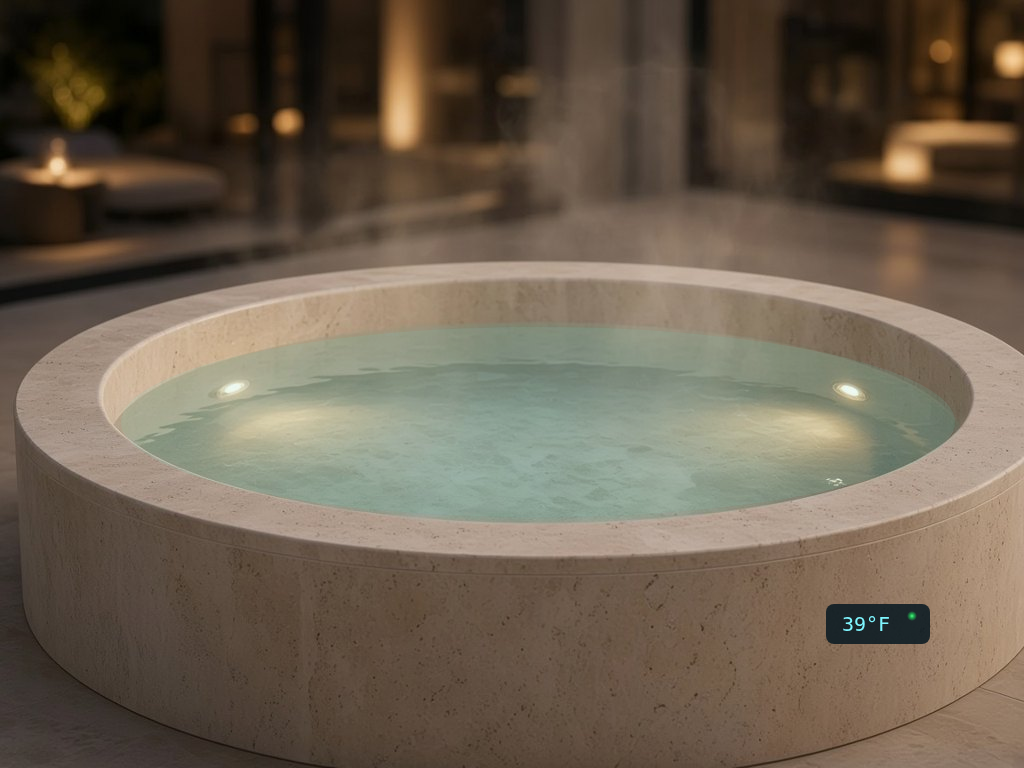
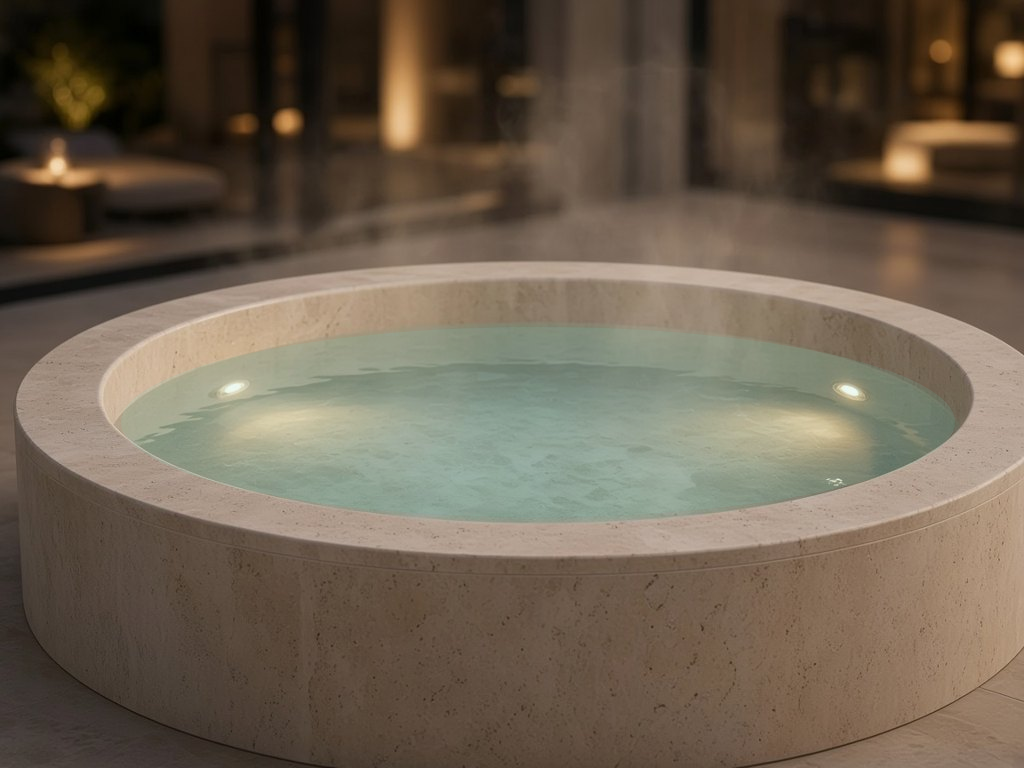
Brand: C01 chromotherapy lights visible on power-on (bright LED orbs, beams, rim wash)

Changed region(s): [[0.7812, 0.7812, 0.9062, 0.8438]]

diff --git a/brand/demo-objects/c01-cold-plunge/object.html b/brand/demo-objects/c01-cold-plunge/object.html
@@ -20,20 +20,20 @@
 .cf-demo-object.chiller-on #flow .ring{transform-box:fill-box;transform-origin:50% 50%;animation:cfRipple 3s ease-out infinite}
 .cf-demo-object.power-on #led-power,.cf-demo-object.power-on #display{opacity:1}
 .cf-demo-object.chiller-on #led-chiller{opacity:1;animation:cfPulse 2s infinite}
-.cf-demo-object #chromo,.cf-demo-object #chromo-fixtures,.cf-demo-object #chromo-rim{opacity:0;transition:opacity .8s ease}
-.cf-demo-object.chromo-on #chromo{opacity:1}
-.cf-demo-object.chromo-on #chromo-fixtures{opacity:1}
-.cf-demo-object.chromo-on #chromo-rim{opacity:.55}
-.cf-demo-object.chromo-on #led-chromo{opacity:1}
+.cf-demo-object #chromo,.cf-demo-object #chromo-fixtures,.cf-demo-object #chromo-rim,.cf-demo-object #led-chromo{opacity:0;transition:opacity .8s ease}
+.cf-demo-object.chromo-on #chromo,.cf-demo-object.power-on:not(.chromo-off) #chromo{opacity:1}
+.cf-demo-object.chromo-on #chromo-fixtures,.cf-demo-object.power-on:not(.chromo-off) #chromo-fixtures{opacity:1}
+.cf-demo-object.chromo-on #chromo-rim,.cf-demo-object.power-on:not(.chromo-off) #chromo-rim{opacity:1}
+.cf-demo-object.chromo-on #led-chromo,.cf-demo-object.power-on:not(.chromo-off) #led-chromo{opacity:1}
 .cf-demo-object .cc{fill:#1e6bff;transition:fill .8s ease}
 @keyframes cfChromo{0%{fill:#1e6bff}20%{fill:#00d1c1}40%{fill:#8a3dff}60%{fill:#ff3da8}80%{fill:#ff9a2e}100%{fill:#1e6bff}}
-.cf-demo-object.chromo-on .cc{animation:cfChromo 12s linear infinite}
-.cf-demo-object.chromo-on.chromo-blue .cc{animation:none;fill:#1e6bff}
-.cf-demo-object.chromo-on.chromo-teal .cc{animation:none;fill:#00d1c1}
-.cf-demo-object.chromo-on.chromo-violet .cc{animation:none;fill:#8a3dff}
-.cf-demo-object.chromo-on.chromo-magenta .cc{animation:none;fill:#ff3da8}
-.cf-demo-object.chromo-on.chromo-warm .cc{animation:none;fill:#ff9a2e}
-.cf-demo-object.chromo-on.chromo-white .cc{animation:none;fill:#eaf6ff}
+.cf-demo-object.chromo-on .cc,.cf-demo-object.power-on:not(.chromo-off) .cc{animation:cfChromo 12s linear infinite}
+.cf-demo-object.cf-demo-object.chromo-blue:not(.chromo-off) .cc{animation:none;fill:#1e6bff}
+.cf-demo-object.cf-demo-object.chromo-teal:not(.chromo-off) .cc{animation:none;fill:#00d1c1}
+.cf-demo-object.cf-demo-object.chromo-violet:not(.chromo-off) .cc{animation:none;fill:#8a3dff}
+.cf-demo-object.cf-demo-object.chromo-magenta:not(.chromo-off) .cc{animation:none;fill:#ff3da8}
+.cf-demo-object.cf-demo-object.chromo-warm:not(.chromo-off) .cc{animation:none;fill:#ff9a2e}
+.cf-demo-object.cf-demo-object.chromo-white:not(.chromo-off) .cc{animation:none;fill:#eaf6ff}
 </style>
 <defs><radialGradient id="gWarm"><stop offset="0" stop-color="#ffb347" stop-opacity=".9"/><stop offset="1" stop-color="#ff7a00" stop-opacity="0"/></radialGradient>
 <radialGradient id="gCyan"><stop offset="0" stop-color="#7ff6ff" stop-opacity=".85"/><stop offset="1" stop-color="#00c8ff" stop-opacity="0"/></radialGradient>
@@ -62,12 +62,12 @@
 <g id="water" clip-path="url(#cWater)"><rect id="water-tint" x="110" y="320" width="860" height="210" style="mix-blend-mode:soft-light"/></g>
 <mask id="mWater"><ellipse cx="538" cy="422" rx="414" ry="93" fill="#fff" filter="url(#fCaus)"/></mask>
 <g id="chromo">
-<g clip-path="url(#cWater)" mask="url(#mWater)" style="mix-blend-mode:multiply" opacity=".3"><rect class="cc" x="110" y="320" width="860" height="210"/></g>
-<g clip-path="url(#cWater)" mask="url(#mWater)" style="mix-blend-mode:color" opacity=".38"><rect class="cc" x="110" y="320" width="860" height="210"/></g>
-<g clip-path="url(#cWater)" mask="url(#mWater)" style="mix-blend-mode:screen" opacity=".55"><g filter="url(#fBlurBig)"><ellipse class="cc" cx="255" cy="412" rx="160" ry="55"/><ellipse class="cc" cx="825" cy="415" rx="160" ry="55"/><ellipse class="cc" cx="538" cy="470" rx="260" ry="40" opacity=".5"/></g></g>
+<g clip-path="url(#cWater)" mask="url(#mWater)" style="mix-blend-mode:multiply" opacity=".35"><rect class="cc" x="110" y="320" width="860" height="210"/></g>
+<g clip-path="url(#cWater)" mask="url(#mWater)" style="mix-blend-mode:color" opacity=".72"><rect class="cc" x="110" y="320" width="860" height="210"/></g>
+<g clip-path="url(#cWater)" mask="url(#mWater)" style="mix-blend-mode:screen" opacity=".95"><g filter="url(#fBlurBig)"><ellipse class="cc" cx="255" cy="412" rx="210" ry="70"/><ellipse class="cc" cx="825" cy="415" rx="210" ry="70"/><ellipse class="cc" cx="538" cy="440" rx="330" ry="60" opacity=".75"/><path class="cc" d="M232 392 L420 520 L180 520 Z" opacity=".8"/><path class="cc" d="M850 395 L900 520 L660 520 Z" opacity=".8"/></g></g>
 </g>
-<g id="chromo-rim" clip-path="url(#cRimIn)" mask="url(#mRimIn)" style="mix-blend-mode:screen"><ellipse class="cc" cx="260" cy="395" rx="150" ry="40" opacity=".5" filter="url(#fBlurBig)"/><ellipse class="cc" cx="820" cy="398" rx="150" ry="40" opacity=".5" filter="url(#fBlurBig)"/></g>
-<g id="chromo-fixtures" style="mix-blend-mode:screen"><circle class="cc" cx="232" cy="388" r="22" filter="url(#fBlur)"/><circle cx="232" cy="388" r="4" fill="#fff" opacity=".85"/><circle class="cc" cx="850" cy="391" r="22" filter="url(#fBlur)"/><circle cx="850" cy="391" r="4" fill="#fff" opacity=".85"/></g>
+<g id="chromo-rim" clip-path="url(#cRimIn)" mask="url(#mRimIn)" style="mix-blend-mode:screen"><ellipse class="cc" cx="260" cy="385" rx="200" ry="55" opacity=".95" filter="url(#fBlurBig)"/><ellipse class="cc" cx="820" cy="388" rx="200" ry="55" opacity=".95" filter="url(#fBlurBig)"/><ellipse class="cc" cx="538" cy="330" rx="300" ry="30" opacity=".55" filter="url(#fBlurBig)"/></g>
+<g id="chromo-fixtures" style="mix-blend-mode:screen"><circle class="cc" cx="232" cy="388" r="70" opacity=".7" filter="url(#fBlurBig)"/><circle class="cc" cx="232" cy="388" r="30" filter="url(#fBlur)"/><circle cx="232" cy="388" r="11" fill="#fff" opacity=".95" filter="url(#fSoft)"/><circle class="cc" cx="850" cy="391" r="70" opacity=".7" filter="url(#fBlurBig)"/><circle class="cc" cx="850" cy="391" r="30" filter="url(#fBlur)"/><circle cx="850" cy="391" r="11" fill="#fff" opacity=".95" filter="url(#fSoft)"/></g>
 <g id="flow" class="ov" style="mix-blend-mode:screen" clip-path="url(#cWater)"><g opacity=".25"><ellipse class="ring" style="animation-delay:0.0s" cx="538" cy="430" rx="160" ry="34" fill="none" stroke="#dff8ff" stroke-width="3" filter="url(#fCaus)"/><ellipse class="ring" style="animation-delay:1.0s" cx="538" cy="430" rx="160" ry="34" fill="none" stroke="#dff8ff" stroke-width="3" filter="url(#fCaus)"/><ellipse class="ring" style="animation-delay:2.0s" cx="538" cy="430" rx="160" ry="34" fill="none" stroke="#dff8ff" stroke-width="3" filter="url(#fCaus)"/></g></g>
 <g id="mist" class="ov"><ellipse class="puff" style="animation-delay:0.0s" cx="230" cy="330" rx="120" ry="34" fill="#fff" opacity=".22" filter="url(#fBlurBig)"/><ellipse class="puff" style="animation-delay:0.6s" cx="380" cy="305" rx="120" ry="34" fill="#fff" opacity=".22" filter="url(#fBlurBig)"/><ellipse class="puff" style="animation-delay:1.2s" cx="530" cy="330" rx="120" ry="34" fill="#fff" opacity=".22" filter="url(#fBlurBig)"/><ellipse class="puff" style="animation-delay:1.8s" cx="680" cy="305" rx="120" ry="34" fill="#fff" opacity=".22" filter="url(#fBlurBig)"/><ellipse class="puff" style="animation-delay:2.4s" cx="830" cy="330" rx="120" ry="34" fill="#fff" opacity=".22" filter="url(#fBlurBig)"/></g>
 <g id="display" class="ov"><rect x="826" y="604" width="104" height="40" rx="8" fill="#0a1a22" opacity=".88"/><text x="866" y="631" fill="#7ff6ff" font-family="monospace" font-size="20" text-anchor="middle">39°F</text></g>

diff --git a/brand/site-handoff/wave1/products/C01-cold-plunge/demo/object.html b/brand/site-handoff/wave1/products/C01-cold-plunge/demo/object.html
@@ -20,20 +20,20 @@
 .cf-demo-object.chiller-on #flow .ring{transform-box:fill-box;transform-origin:50% 50%;animation:cfRipple 3s ease-out infinite}
 .cf-demo-object.power-on #led-power,.cf-demo-object.power-on #display{opacity:1}
 .cf-demo-object.chiller-on #led-chiller{opacity:1;animation:cfPulse 2s infinite}
-.cf-demo-object #chromo,.cf-demo-object #chromo-fixtures,.cf-demo-object #chromo-rim{opacity:0;transition:opacity .8s ease}
-.cf-demo-object.chromo-on #chromo{opacity:1}
-.cf-demo-object.chromo-on #chromo-fixtures{opacity:1}
-.cf-demo-object.chromo-on #chromo-rim{opacity:.55}
-.cf-demo-object.chromo-on #led-chromo{opacity:1}
+.cf-demo-object #chromo,.cf-demo-object #chromo-fixtures,.cf-demo-object #chromo-rim,.cf-demo-object #led-chromo{opacity:0;transition:opacity .8s ease}
+.cf-demo-object.chromo-on #chromo,.cf-demo-object.power-on:not(.chromo-off) #chromo{opacity:1}
+.cf-demo-object.chromo-on #chromo-fixtures,.cf-demo-object.power-on:not(.chromo-off) #chromo-fixtures{opacity:1}
+.cf-demo-object.chromo-on #chromo-rim,.cf-demo-object.power-on:not(.chromo-off) #chromo-rim{opacity:1}
+.cf-demo-object.chromo-on #led-chromo,.cf-demo-object.power-on:not(.chromo-off) #led-chromo{opacity:1}
 .cf-demo-object .cc{fill:#1e6bff;transition:fill .8s ease}
 @keyframes cfChromo{0%{fill:#1e6bff}20%{fill:#00d1c1}40%{fill:#8a3dff}60%{fill:#ff3da8}80%{fill:#ff9a2e}100%{fill:#1e6bff}}
-.cf-demo-object.chromo-on .cc{animation:cfChromo 12s linear infinite}
-.cf-demo-object.chromo-on.chromo-blue .cc{animation:none;fill:#1e6bff}
-.cf-demo-object.chromo-on.chromo-teal .cc{animation:none;fill:#00d1c1}
-.cf-demo-object.chromo-on.chromo-violet .cc{animation:none;fill:#8a3dff}
-.cf-demo-object.chromo-on.chromo-magenta .cc{animation:none;fill:#ff3da8}
-.cf-demo-object.chromo-on.chromo-warm .cc{animation:none;fill:#ff9a2e}
-.cf-demo-object.chromo-on.chromo-white .cc{animation:none;fill:#eaf6ff}
+.cf-demo-object.chromo-on .cc,.cf-demo-object.power-on:not(.chromo-off) .cc{animation:cfChromo 12s linear infinite}
+.cf-demo-object.cf-demo-object.chromo-blue:not(.chromo-off) .cc{animation:none;fill:#1e6bff}
+.cf-demo-object.cf-demo-object.chromo-teal:not(.chromo-off) .cc{animation:none;fill:#00d1c1}
+.cf-demo-object.cf-demo-object.chromo-violet:not(.chromo-off) .cc{animation:none;fill:#8a3dff}
+.cf-demo-object.cf-demo-object.chromo-magenta:not(.chromo-off) .cc{animation:none;fill:#ff3da8}
+.cf-demo-object.cf-demo-object.chromo-warm:not(.chromo-off) .cc{animation:none;fill:#ff9a2e}
+.cf-demo-object.cf-demo-object.chromo-white:not(.chromo-off) .cc{animation:none;fill:#eaf6ff}
 </style>
 <defs><radialGradient id="gWarm"><stop offset="0" stop-color="#ffb347" stop-opacity=".9"/><stop offset="1" stop-color="#ff7a00" stop-opacity="0"/></radialGradient>
 <radialGradient id="gCyan"><stop offset="0" stop-color="#7ff6ff" stop-opacity=".85"/><stop offset="1" stop-color="#00c8ff" stop-opacity="0"/></radialGradient>
@@ -62,12 +62,12 @@
 <g id="water" clip-path="url(#cWater)"><rect id="water-tint" x="110" y="320" width="860" height="210" style="mix-blend-mode:soft-light"/></g>
 <mask id="mWater"><ellipse cx="538" cy="422" rx="414" ry="93" fill="#fff" filter="url(#fCaus)"/></mask>
 <g id="chromo">
-<g clip-path="url(#cWater)" mask="url(#mWater)" style="mix-blend-mode:multiply" opacity=".3"><rect class="cc" x="110" y="320" width="860" height="210"/></g>
-<g clip-path="url(#cWater)" mask="url(#mWater)" style="mix-blend-mode:color" opacity=".38"><rect class="cc" x="110" y="320" width="860" height="210"/></g>
-<g clip-path="url(#cWater)" mask="url(#mWater)" style="mix-blend-mode:screen" opacity=".55"><g filter="url(#fBlurBig)"><ellipse class="cc" cx="255" cy="412" rx="160" ry="55"/><ellipse class="cc" cx="825" cy="415" rx="160" ry="55"/><ellipse class="cc" cx="538" cy="470" rx="260" ry="40" opacity=".5"/></g></g>
+<g clip-path="url(#cWater)" mask="url(#mWater)" style="mix-blend-mode:multiply" opacity=".35"><rect class="cc" x="110" y="320" width="860" height="210"/></g>
+<g clip-path="url(#cWater)" mask="url(#mWater)" style="mix-blend-mode:color" opacity=".72"><rect class="cc" x="110" y="320" width="860" height="210"/></g>
+<g clip-path="url(#cWater)" mask="url(#mWater)" style="mix-blend-mode:screen" opacity=".95"><g filter="url(#fBlurBig)"><ellipse class="cc" cx="255" cy="412" rx="210" ry="70"/><ellipse class="cc" cx="825" cy="415" rx="210" ry="70"/><ellipse class="cc" cx="538" cy="440" rx="330" ry="60" opacity=".75"/><path class="cc" d="M232 392 L420 520 L180 520 Z" opacity=".8"/><path class="cc" d="M850 395 L900 520 L660 520 Z" opacity=".8"/></g></g>
 </g>
-<g id="chromo-rim" clip-path="url(#cRimIn)" mask="url(#mRimIn)" style="mix-blend-mode:screen"><ellipse class="cc" cx="260" cy="395" rx="150" ry="40" opacity=".5" filter="url(#fBlurBig)"/><ellipse class="cc" cx="820" cy="398" rx="150" ry="40" opacity=".5" filter="url(#fBlurBig)"/></g>
-<g id="chromo-fixtures" style="mix-blend-mode:screen"><circle class="cc" cx="232" cy="388" r="22" filter="url(#fBlur)"/><circle cx="232" cy="388" r="4" fill="#fff" opacity=".85"/><circle class="cc" cx="850" cy="391" r="22" filter="url(#fBlur)"/><circle cx="850" cy="391" r="4" fill="#fff" opacity=".85"/></g>
+<g id="chromo-rim" clip-path="url(#cRimIn)" mask="url(#mRimIn)" style="mix-blend-mode:screen"><ellipse class="cc" cx="260" cy="385" rx="200" ry="55" opacity=".95" filter="url(#fBlurBig)"/><ellipse class="cc" cx="820" cy="388" rx="200" ry="55" opacity=".95" filter="url(#fBlurBig)"/><ellipse class="cc" cx="538" cy="330" rx="300" ry="30" opacity=".55" filter="url(#fBlurBig)"/></g>
+<g id="chromo-fixtures" style="mix-blend-mode:screen"><circle class="cc" cx="232" cy="388" r="70" opacity=".7" filter="url(#fBlurBig)"/><circle class="cc" cx="232" cy="388" r="30" filter="url(#fBlur)"/><circle cx="232" cy="388" r="11" fill="#fff" opacity=".95" filter="url(#fSoft)"/><circle class="cc" cx="850" cy="391" r="70" opacity=".7" filter="url(#fBlurBig)"/><circle class="cc" cx="850" cy="391" r="30" filter="url(#fBlur)"/><circle cx="850" cy="391" r="11" fill="#fff" opacity=".95" filter="url(#fSoft)"/></g>
 <g id="flow" class="ov" style="mix-blend-mode:screen" clip-path="url(#cWater)"><g opacity=".25"><ellipse class="ring" style="animation-delay:0.0s" cx="538" cy="430" rx="160" ry="34" fill="none" stroke="#dff8ff" stroke-width="3" filter="url(#fCaus)"/><ellipse class="ring" style="animation-delay:1.0s" cx="538" cy="430" rx="160" ry="34" fill="none" stroke="#dff8ff" stroke-width="3" filter="url(#fCaus)"/><ellipse class="ring" style="animation-delay:2.0s" cx="538" cy="430" rx="160" ry="34" fill="none" stroke="#dff8ff" stroke-width="3" filter="url(#fCaus)"/></g></g>
 <g id="mist" class="ov"><ellipse class="puff" style="animation-delay:0.0s" cx="230" cy="330" rx="120" ry="34" fill="#fff" opacity=".22" filter="url(#fBlurBig)"/><ellipse class="puff" style="animation-delay:0.6s" cx="380" cy="305" rx="120" ry="34" fill="#fff" opacity=".22" filter="url(#fBlurBig)"/><ellipse class="puff" style="animation-delay:1.2s" cx="530" cy="330" rx="120" ry="34" fill="#fff" opacity=".22" filter="url(#fBlurBig)"/><ellipse class="puff" style="animation-delay:1.8s" cx="680" cy="305" rx="120" ry="34" fill="#fff" opacity=".22" filter="url(#fBlurBig)"/><ellipse class="puff" style="animation-delay:2.4s" cx="830" cy="330" rx="120" ry="34" fill="#fff" opacity=".22" filter="url(#fBlurBig)"/></g>
 <g id="display" class="ov"><rect x="826" y="604" width="104" height="40" rx="8" fill="#0a1a22" opacity=".88"/><text x="866" y="631" fill="#7ff6ff" font-family="monospace" font-size="20" text-anchor="middle">39°F</text></g>

diff --git a/brand/demo-objects/DEMO_OBJECTS.md b/brand/demo-objects/DEMO_OBJECTS.md
@@ -27,9 +27,9 @@ o.querySelector('#water').style.transform = `scaleY(${level})`; // 0..1, bottom-
 | O04 `o04-reef` | `light-on` (#light-beam, #light-glow, #status-light), `heater-on` (#heater-glow, #status-heater), `pump-on` (#flow caustics, #status-pump) | `#water` = cyan tint layer, scaleY |
 | C03 `c03-basement` | `pump1-on` (#pump1-glow, #ripple1, #led-pump1), `pump2-on` (…2), `alarm` (#alarm-wash red pulse, #led-alarm) | `#water` (pit tint) scaleY; `#float` translateY (px, negative = up) |
 | O15 `o15-terrarium` | `lamp-on` (#lamp-beam, #lamp-glow), `heat-on` (#heat-haze), `mist-on` (#mist rising) | **new** `uvb-on` (#uvb bar) |
-| C01 `c01-cold-plunge` | **`chromo-on`** = Chromotherapy master (cycles colors 12 s) + optional fixed color `chromo-blue` / `chromo-teal` / `chromo-violet` / `chromo-magenta` / `chromo-warm` / `chromo-white`; `chiller-on` (#mist, #flow, #led-chiller), `power-on` (#display 39°F, #led-power), `temp-neutral` (water tint cold-blue → neutral) | all water layers clipped to `#cWater` ellipse (= `water-mask.png`); `#water-tint` fill for custom temp tint |
+| C01 `c01-cold-plunge` | **`power-on` or `chromo-on`** = Chromotherapy lights on (`chromo-off` opts out while powered) (cycles colors 12 s) + optional fixed color `chromo-blue` / `chromo-teal` / `chromo-violet` / `chromo-magenta` / `chromo-warm` / `chromo-white`; `chiller-on` (#mist, #flow, #led-chiller), `power-on` (#display 39°F, #led-power), `temp-neutral` (water tint cold-blue → neutral) | all water layers clipped to `#cWater` ellipse (= `water-mask.png`); `#water-tint` fill for custom temp tint |
 
-Idle composites: O04 `swim-on`; O15/C03 no classes; C01 = `power-on temp-neutral`. Active: all listed classes (O04 also `swim-on`; C01 = `power-on chiller-on chromo-on chromo-violet`).
+Idle composites: O04 `swim-on`; O15/C03 no classes; C01 = `temp-neutral` (unpowered, lights off). Active: all listed classes (O04 also `swim-on`; C01 = `power-on chiller-on chromo-on chromo-violet`).
 
 ## Caveats
 - Bases are AI-generated plates (brochure-grade, not product photos of our hardware). C03 is a top-down documentary view, not a true cutaway; water-level scaleY is a tint, not a real level change.
@@ -58,8 +58,10 @@ Class toggles **and** reliable animation require the SVG to be **inlined in the 
 - **New base** `c01-cold-plunge/base.jpg`: round elevated travertine plunge tub, 3/4 close-up, water **contained inside the vessel** below the rim, two underwater LED fixtures on the inner wall, light mist. Generated with our own pool-site spa photo (`_refs/pool-spa-1248.webp`, from `site/src/assets/photos/spa-1248.webp`) as **style/quality reference only**. James’s reef ref not used. Previous broken rectangle base replaced.
 - **Water stays inside the vessel:** every water/LED layer is clipped to `<clipPath id="cWater">` = ellipse `cx 538 cy 422 rx 417 ry 95` (hand-fitted to the water surface) and feathered by `<mask id="mWater">`. Same shape shipped as `c01-cold-plunge/water-mask.png` (1024×768, white = water) for anyone compositing outside the SVG. Only `#chromo-rim` (soft spill onto the *inner* stone wall, masked to the inner bowl) and the rim LCD sit outside the water.
 - **Chromotherapy** (feature name for the site/demo button): colored underwater LEDs, like pool app `.m-spa` + `.spa-lit` + tint `#l-spa-c`.
-  - `chromo-on` = master. Alone it **cycles** blue → teal → violet → magenta → warm (12 s loop).
-  - Add one of `chromo-blue | chromo-teal | chromo-violet | chromo-magenta | chromo-warm | chromo-white` to lock a color (remove to resume cycling).
+  - **v5 visibility rule (James, Oct 26):** chromotherapy lights show whenever **`power-on` OR `chromo-on`** is set, so a site that only toggles `power-on` (plus chiller/pump/heater) already shows cycling colored LEDs. Add `chromo-off` to keep the tub powered with lights dark.
+  - Lit = **cycles** blue → teal → violet → magenta → warm (12 s loop).
+  - v5 strength: `#chromo` color blend .72 + screen glows .95 with beams from each lens; `#chromo-fixtures` = large glowing orbs (70 px halo, 30 px core, white hot spot); `#chromo-rim` full opacity wash on the inner stone.
+  - Add one of `chromo-blue | chromo-teal | chromo-violet | chromo-magenta | chromo-warm | chromo-white` to lock a color (remove to resume cycling). Pins work with either `power-on` or `chromo-on`.
   - Layers: `#chromo` (multiply + color + screen glows, clipped to water), `#chromo-fixtures` (the two LED lenses glow), `#chromo-rim` (inner-wall spill), `#led-chromo` (dot on the rim LCD). All colored elements share class `.cc`; custom color: `o.querySelectorAll('.cc').forEach(e=>e.style.fill='#ff0')` with `chromo-on` + any `chromo-*` lock (to stop the cycle).
   - `chromotherapy-sheet.png` shows all six locked colors.
 ```js

diff --git a/brand/site-handoff/wave1/products/C01-cold-plunge/demo/WIRING.md b/brand/site-handoff/wave1/products/C01-cold-plunge/demo/WIRING.md
@@ -27,9 +27,9 @@ o.querySelector('#water').style.transform = `scaleY(${level})`; // 0..1, bottom-
 | O04 `o04-reef` | `light-on` (#light-beam, #light-glow, #status-light), `heater-on` (#heater-glow, #status-heater), `pump-on` (#flow caustics, #status-pump) | `#water` = cyan tint layer, scaleY |
 | C03 `c03-basement` | `pump1-on` (#pump1-glow, #ripple1, #led-pump1), `pump2-on` (…2), `alarm` (#alarm-wash red pulse, #led-alarm) | `#water` (pit tint) scaleY; `#float` translateY (px, negative = up) |
 | O15 `o15-terrarium` | `lamp-on` (#lamp-beam, #lamp-glow), `heat-on` (#heat-haze), `mist-on` (#mist rising) | **new** `uvb-on` (#uvb bar) |
-| C01 `c01-cold-plunge` | **`chromo-on`** = Chromotherapy master (cycles colors 12 s) + optional fixed color `chromo-blue` / `chromo-teal` / `chromo-violet` / `chromo-magenta` / `chromo-warm` / `chromo-white`; `chiller-on` (#mist, #flow, #led-chiller), `power-on` (#display 39°F, #led-power), `temp-neutral` (water tint cold-blue → neutral) | all water layers clipped to `#cWater` ellipse (= `water-mask.png`); `#water-tint` fill for custom temp tint |
+| C01 `c01-cold-plunge` | **`power-on` or `chromo-on`** = Chromotherapy lights on (`chromo-off` opts out while powered) (cycles colors 12 s) + optional fixed color `chromo-blue` / `chromo-teal` / `chromo-violet` / `chromo-magenta` / `chromo-warm` / `chromo-white`; `chiller-on` (#mist, #flow, #led-chiller), `power-on` (#display 39°F, #led-power), `temp-neutral` (water tint cold-blue → neutral) | all water layers clipped to `#cWater` ellipse (= `water-mask.png`); `#water-tint` fill for custom temp tint |
 
-Idle composites: O04 `swim-on`; O15/C03 no classes; C01 = `power-on temp-neutral`. Active: all listed classes (O04 also `swim-on`; C01 = `power-on chiller-on chromo-on chromo-violet`).
+Idle composites: O04 `swim-on`; O15/C03 no classes; C01 = `temp-neutral` (unpowered, lights off). Active: all listed classes (O04 also `swim-on`; C01 = `power-on chiller-on chromo-on chromo-violet`).
 
 ## Caveats
 - Bases are AI-generated plates (brochure-grade, not product photos of our hardware). C03 is a top-down documentary view, not a true cutaway; water-level scaleY is a tint, not a real level change.
@@ -58,8 +58,10 @@ Class toggles **and** reliable animation require the SVG to be **inlined in the 
 - **New base** `c01-cold-plunge/base.jpg`: round elevated travertine plunge tub, 3/4 close-up, water **contained inside the vessel** below the rim, two underwater LED fixtures on the inner wall, light mist. Generated with our own pool-site spa photo (`_refs/pool-spa-1248.webp`, from `site/src/assets/photos/spa-1248.webp`) as **style/quality reference only**. James’s reef ref not used. Previous broken rectangle base replaced.
 - **Water stays inside the vessel:** every water/LED layer is clipped to `<clipPath id="cWater">` = ellipse `cx 538 cy 422 rx 417 ry 95` (hand-fitted to the water surface) and feathered by `<mask id="mWater">`. Same shape shipped as `c01-cold-plunge/water-mask.png` (1024×768, white = water) for anyone compositing outside the SVG. Only `#chromo-rim` (soft spill onto the *inner* stone wall, masked to the inner bowl) and the rim LCD sit outside the water.
 - **Chromotherapy** (feature name for the site/demo button): colored underwater LEDs, like pool app `.m-spa` + `.spa-lit` + tint `#l-spa-c`.
-  - `chromo-on` = master. Alone it **cycles** blue → teal → violet → magenta → warm (12 s loop).
-  - Add one of `chromo-blue | chromo-teal | chromo-violet | chromo-magenta | chromo-warm | chromo-white` to lock a color (remove to resume cycling).
+  - **v5 visibility rule (James, Oct 26):** chromotherapy lights show whenever **`power-on` OR `chromo-on`** is set, so a site that only toggles `power-on` (plus chiller/pump/heater) already shows cycling colored LEDs. Add `chromo-off` to keep the tub powered with lights dark.
+  - Lit = **cycles** blue → teal → violet → magenta → warm (12 s loop).
+  - v5 strength: `#chromo` color blend .72 + screen glows .95 with beams from each lens; `#chromo-fixtures` = large glowing orbs (70 px halo, 30 px core, white hot spot); `#chromo-rim` full opacity wash on the inner stone.
+  - Add one of `chromo-blue | chromo-teal | chromo-violet | chromo-magenta | chromo-warm | chromo-white` to lock a color (remove to resume cycling). Pins work with either `power-on` or `chromo-on`.
   - Layers: `#chromo` (multiply + color + screen glows, clipped to water), `#chromo-fixtures` (the two LED lenses glow), `#chromo-rim` (inner-wall spill), `#led-chromo` (dot on the rim LCD). All colored elements share class `.cc`; custom color: `o.querySelectorAll('.cc').forEach(e=>e.style.fill='#ff0')` with `chromo-on` + any `chromo-*` lock (to stop the cycle).
   - `chromotherapy-sheet.png` shows all six locked colors.
 ```js
